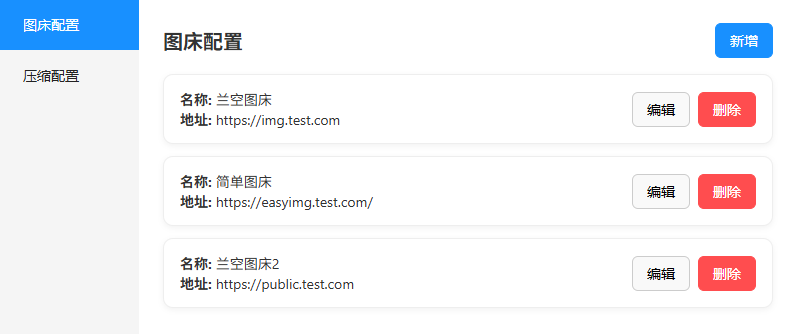
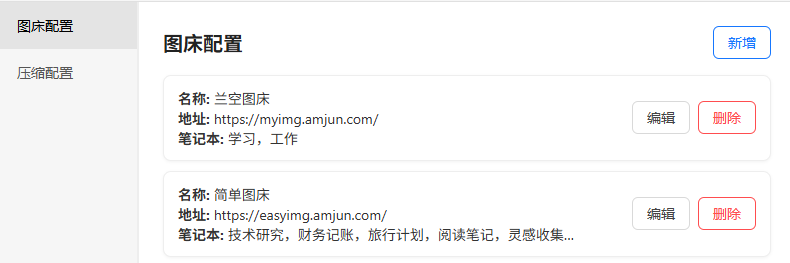
add: 新增列表显示笔记本，禁止笔记本重复绑定

diff --git a/src/components/ImgBedConfig.vue b/src/components/ImgBedConfig.vue
@@ -18,6 +18,8 @@ const newImgBedType = ref<ImgBedType>(ImgBedType.Lsky)
 const newImgBedConfig = ref<Partial<ImgBedConfig>>({ notebookIds: [] })
 const editingBedId = ref<string | null>(null)
 const notebookList = ref<Array<SelectItem>>([])
+const disabledNotebookIds = ref<string[]>([])
+
 
 async function persistConfig() {
   try {
@@ -33,6 +35,7 @@ function toAddMode() {
   newImgBedConfig.value = { notebookIds: [] }
   newImgBedType.value = ImgBedType.Lsky
   editingBedId.value = null
+  computeDisabledNotebooks()
   mode.value = Mode.ADD
 }
 
@@ -40,6 +43,7 @@ function toEditMode(bed: ImgBedConfig) {
   newImgBedConfig.value = { ...bed }
   newImgBedType.value = bed.type as ImgBedType
   editingBedId.value = bed.id
+  computeDisabledNotebooks(bed.id)
   mode.value = Mode.EDIT
 }
 
@@ -115,15 +119,44 @@ async function removeImgBed(id: string) {
   await persistConfig()
 }
 
+function getNotebookNames(ids) {
+  if (!ids || ids.length === 0) return '-'
+  return ids
+    .map(id => notebookList.value.find(nb => nb.value === id)?.name || '未知')
+    .join('，')
+}
+
+function computeDisabledNotebooks(currentBedId?: string) {
+  const ids: string[] = []
+
+  form.value.forEach(bed => {
+    // 如果是当前编辑的图床，则跳过它自己的 notebook
+    if (currentBedId && bed.id === currentBedId) return
+    ids.push(...bed.notebookIds)
+  })
+
+  disabledNotebookIds.value = ids
+}
+
+// 加载：1. 笔记本列表 2. 插件配置
 onMounted(async () => {
   try {
-    const appConfig = await configStore.loadConfig()
-    form.value = Array.isArray(appConfig?.imgBedList) ? appConfig.imgBedList : []
     const response = await Client.lsNotebooks()
     notebookList.value = response.data.notebooks.map(nb => ({
       name: nb.name,
       value: nb.id,
     }))
+
+    const existingNotebookIds = new Set(notebookList.value.map(nb => nb.value))
+    const appConfig = await configStore.loadConfig()
+    form.value = Array.isArray(appConfig?.imgBedList)
+      ? appConfig.imgBedList.map(imgBed => ({
+          ...imgBed,
+          notebookIds: Array.isArray(imgBed.notebookIds)
+            ? imgBed.notebookIds.filter(id => existingNotebookIds.has(id))
+            : [],
+        }))
+      : []
   } catch {
     console.log("没有已有配置，使用默认值")
   }
@@ -142,8 +175,15 @@ onMounted(async () => {
       <ul class="list">
         <li v-for="item in form" :key="item.id" class="list-item">
           <div>
-            <strong>名称:</strong> {{ item.name }}<br/>
-            <strong>地址:</strong> {{ item.baseUrl }}
+            <strong>名称: </strong>{{ item.name }}<br/>
+            <strong>地址: </strong>{{ item.baseUrl }}<br/>
+            <strong>笔记本: </strong>
+            <span 
+              class="notebook-preview" 
+              :title="getNotebookNames(item.notebookIds)"
+            >
+              {{ getNotebookNames(item.notebookIds) }}
+            </span>
           </div>
           <div class="actions">
             <button class="btn" @click="toEditMode(item)">编辑</button>
@@ -172,6 +212,7 @@ onMounted(async () => {
             <MultiSelect
               v-model="newImgBedConfig.notebookIds"
               :options="notebookList"
+              :disabledList="disabledNotebookIds"
               placeholder="请绑定笔记本"
             />
           </label>
@@ -310,6 +351,16 @@ onMounted(async () => {
   border-left: 3px solid #1677ff;
   padding-left: 8px;
   color: #222;
+}
+
+.notebook-preview {
+  display: inline-block;
+  max-width: 350px; /* 根据你需要调整宽度 */
+  white-space: nowrap;
+  overflow: hidden;
+  text-overflow: ellipsis;
+  vertical-align: bottom;
+  cursor: help; /* 鼠标悬浮显示 title */
 }
 
 .form label {

diff --git a/src/components/MultiSelect.vue b/src/components/MultiSelect.vue
@@ -24,7 +24,10 @@
           v-for="option in options"
           :key="option.value"
           class="multi-select-option"
-          :class="{ 'is-selected': isOptionSelected(option.value) }"
+          :class="{ 
+            'is-selected': isOptionSelected(option.value),
+            'is-disabled': isOptionDisabled(option.value)
+          }"
           @click="handleOptionClick(option)"
         >
           {{ option.name }}
@@ -41,11 +44,11 @@
 import { ref, computed, watch, onMounted, onUnmounted } from 'vue'
 import type { SelectItem } from '@/types/components'
 
-// props 类型注解
 const props = defineProps<{
   modelValue: string[]
   options: SelectItem[]
   placeholder?: string
+  disabledList?: string[]
 }>()
 
 const emit = defineEmits<{
@@ -56,16 +59,16 @@ const isOpen = ref(false)
 const isFocused = ref(false)
 const containerRef = ref<HTMLElement | null>(null)
 
-// 根据 modelValue 获取选中的项
 const selectedOptions = computed(() =>
   props.options.filter(option => props.modelValue.includes(option.value))
 )
 
-// 检查某个选项是否已选中
 const isOptionSelected = (value: string) => props.modelValue.includes(value)
+const isOptionDisabled = (value: string) => props.disabledList?.includes(value) ?? false
 
-// 点击选项处理
 const handleOptionClick = (option: SelectItem) => {
+  if (isOptionDisabled(option.value)) return
+
   const selectedValues = [...props.modelValue]
   const index = selectedValues.indexOf(option.value)
   if (index > -1) {
@@ -76,19 +79,16 @@ const handleOptionClick = (option: SelectItem) => {
   emit('update:modelValue', selectedValues)
 }
 
-// 移除标签
 const handleRemoveTag = (value: string) => {
   const selectedValues = props.modelValue.filter(v => v !== value)
   emit('update:modelValue', selectedValues)
 }
 
-// 切换下拉显示
 const toggleDropdown = () => {
   isOpen.value = !isOpen.value
   isFocused.value = isOpen.value
 }
 
-// 点击组件外部关闭下拉
 const handleClickOutside = (event: MouseEvent) => {
   if (containerRef.value && !containerRef.value.contains(event.target as Node)) {
     isOpen.value = false
@@ -99,7 +99,6 @@ const handleClickOutside = (event: MouseEvent) => {
 onMounted(() => document.addEventListener('click', handleClickOutside))
 onUnmounted(() => document.removeEventListener('click', handleClickOutside))
 
-// 当 modelValue 清空时取消聚焦
 watch(
   () => props.modelValue,
   newVal => {
@@ -209,6 +208,13 @@ watch(
   color: #409eff;
   background-color: #f5f7fa;
   font-weight: 500;
+}
+
+.multi-select-option.is-disabled {
+  color: #c0c4cc;
+  cursor: not-allowed;
+  pointer-events: none;
+  background-color: #f5f5f5;
 }
 
 .multi-select-empty {
